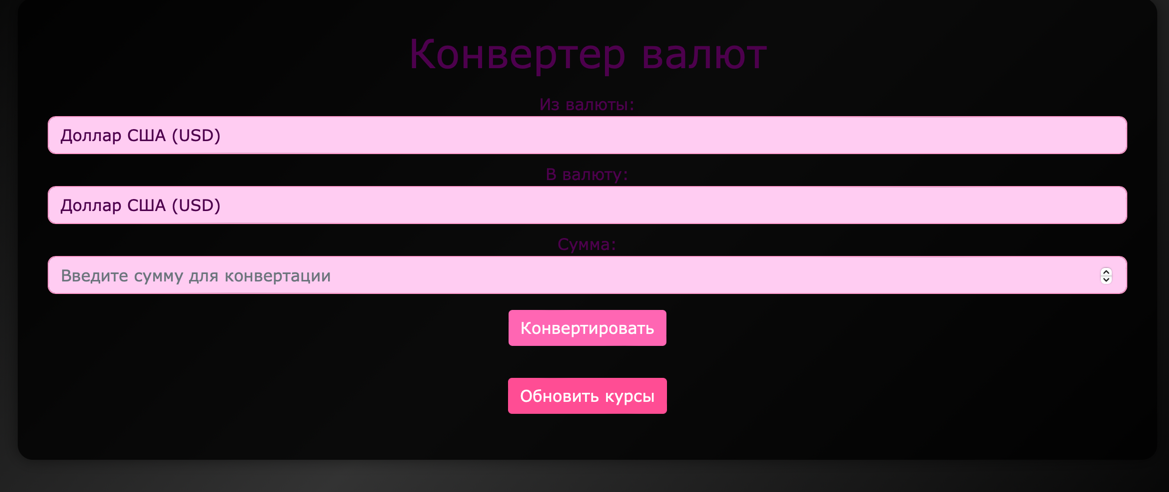
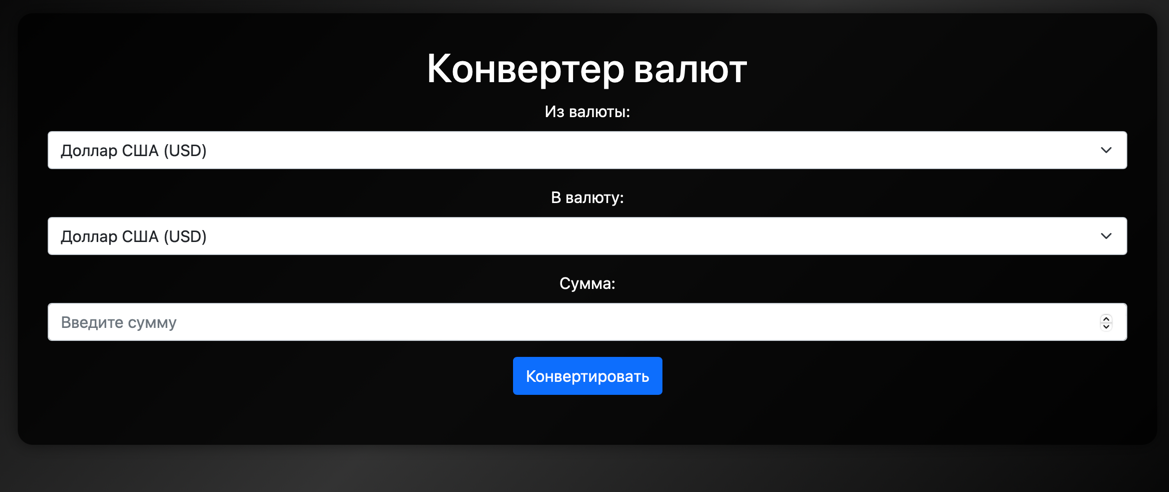
new

diff --git a/converter/templates/index.html b/converter/templates/index.html
@@ -4,44 +4,35 @@
     <meta charset="UTF-8">
     <meta name="viewport" content="width=device-width, initial-scale=1.0">
     <title>Конвертер валют</title>
-    <!-- Bootstrap CSS -->
     <link href="https://cdn.jsdelivr.net/npm/bootstrap@5.1.3/dist/css/bootstrap.min.css" rel="stylesheet">
-    <link rel="stylesheet" href="{{ url_for('static', filename='style.css') }}">
     <style>
         body {
-            background: linear-gradient(135deg, #000 0%, #333 50%, #000 100%); /* Фон с градиентом */
-            color: #fff; /* Белый цвет текста */
-            height: 100vh; /* Высота окна */
+            background: linear-gradient(135deg, #000 0%, #333 50%, #000 100%);
+            color: #fff;
+            height: 100vh;
             margin: 0;
             display: flex;
             justify-content: center;
             align-items: center;
         }
         .container {
-            background-color: rgba(0, 0, 0, 0.8); /* Полупрозрачный черный фон для контейнера */
+            background-color: rgba(0, 0, 0, 0.8);
             padding: 30px;
             border-radius: 15px;
             box-shadow: 0px 0px 15px rgba(0, 0, 0, 0.5);
         }
-        #logo {
-            position: fixed;
-            bottom: 10px;
-            right: 10px;
-            font-size: 24px;
-            font-weight: bold;
-            color: #00ff00; /* Цвет логотипа */
+        #result {
+            margin-top: 20px;
         }
     </style>
 </head>
 <body>
-    <!-- Логотип в правом нижнем углу -->
-
     <div class="container text-center">
         <h1>Конвертер валют</h1>
-        <form id="convertForm" class="mt-3">
-            <div class="form-group mt-2">
-                <label for="fromCurrency">Из валюты:</label>
-                <select id="fromCurrency" class="form-control">
+        <form id="convertForm">
+            <div class="mb-3">
+                <label for="fromCurrency" class="form-label">Из валюты:</label>
+                <select id="fromCurrency" class="form-select" required>
                     <option value="USD">Доллар США (USD)</option>
                     <option value="EUR">Евро (EUR)</option>
                     <option value="RUB">Российский рубль (RUB)</option>
@@ -50,9 +41,9 @@
                     <option value="CNY">Китайский юань (CNY)</option>
                 </select>
             </div>
-            <div class="form-group mt-2">
-                <label for="toCurrency">В валюту:</label>
-                <select id="toCurrency" class="form-control">
+            <div class="mb-3">
+                <label for="toCurrency" class="form-label">В валюту:</label>
+                <select id="toCurrency" class="form-select" required>
                     <option value="USD">Доллар США (USD)</option>
                     <option value="EUR">Евро (EUR)</option>
                     <option value="RUB">Российский рубль (RUB)</option>
@@ -61,62 +52,42 @@
                     <option value="CNY">Китайский юань (CNY)</option>
                 </select>
             </div>
-            <div class="form-group mt-2">
-                <label for="amount">Сумма:</label>
-                <input type="number" id="amount" class="form-control" placeholder="Введите сумму для конвертации">
+            <div class="mb-3">
+                <label for="amount" class="form-label">Сумма:</label>
+                <input type="number" id="amount" class="form-control" placeholder="Введите сумму" required min="0">
             </div>
-            <button type="button" class="btn btn-primary mt-3" onclick="convertCurrency()">Конвертировать</button>
+            <button type="submit" class="btn btn-primary">Конвертировать</button>
         </form>
-        <p class="mt-3" id="result"></p>
-        <button class="btn btn-success mt-3" onclick="updateRates()">Обновить курсы</button>
-        <p class="mt-3" id="lastUpdated"></p>
+        <div id="result"></div>
     </div>
 
-    <!-- Подключение jQuery и JS -->
     <script src="https://ajax.googleapis.com/ajax/libs/jquery/3.6.0/jquery.min.js"></script>
     <script>
-        // Конвертация валют
-        function convertCurrency() {
-            const fromCurrency = $('#fromCurrency').val();
-            const toCurrency = $('#toCurrency').val();
-            const amount = $('#amount').val();
-
-            $.ajax({
-                url: '/convert',
-                type: 'POST',
-                contentType: 'application/json',
-                data: JSON.stringify({
-                    from_currency: fromCurrency,
-                    to_currency: toCurrency,
-                    amount: amount
-                }),
-                success: function(response) {
-                    $('#result').text(`Результат конвертации: ${response.converted_amount}`);
-                },
-                error: function() {
-                    $('#result').text('Ошибка при конвертации.');
-                }
-            });
-        }
-
-        // Обновление курсов валют
-        function updateRates() {
-            $.get('/update-rates', function(data) {
-                alert(data);
-                getLastUpdated();
-            });
-        }
-
-        // Получение даты последнего обновления
-        function getLastUpdated() {
-            $.get('/last-updated', function(data) {
-                $('#lastUpdated').text(data);
-            });
-        }
-
-        // Получение даты последнего обновления при загрузке страницы
         $(document).ready(function() {
-            getLastUpdated();
+            $('#convertForm').on('submit', function(event) {
+                event.preventDefault();
+
+                const fromCurrency = $('#fromCurrency').val();
+                const toCurrency = $('#toCurrency').val();
+                const amount = $('#amount').val();
+
+                $.ajax({
+                    url: '/convert',
+                    type: 'POST',
+                    contentType: 'application/json',
+                    data: JSON.stringify({
+                        from_currency: fromCurrency,
+                        to_currency: toCurrency,
+                        amount: amount
+                    }),
+                    success: function(response) {
+                        $('#result').html(Конвертированная сумма: ${response.converted_amount} ${toCurrency});
+                    },
+                    error: function(xhr) {
+                        $('#result').html(Ошибка: ${xhr.responseJSON.error});
+                    }
+                });
+            });
         });
     </script>
 </body>
